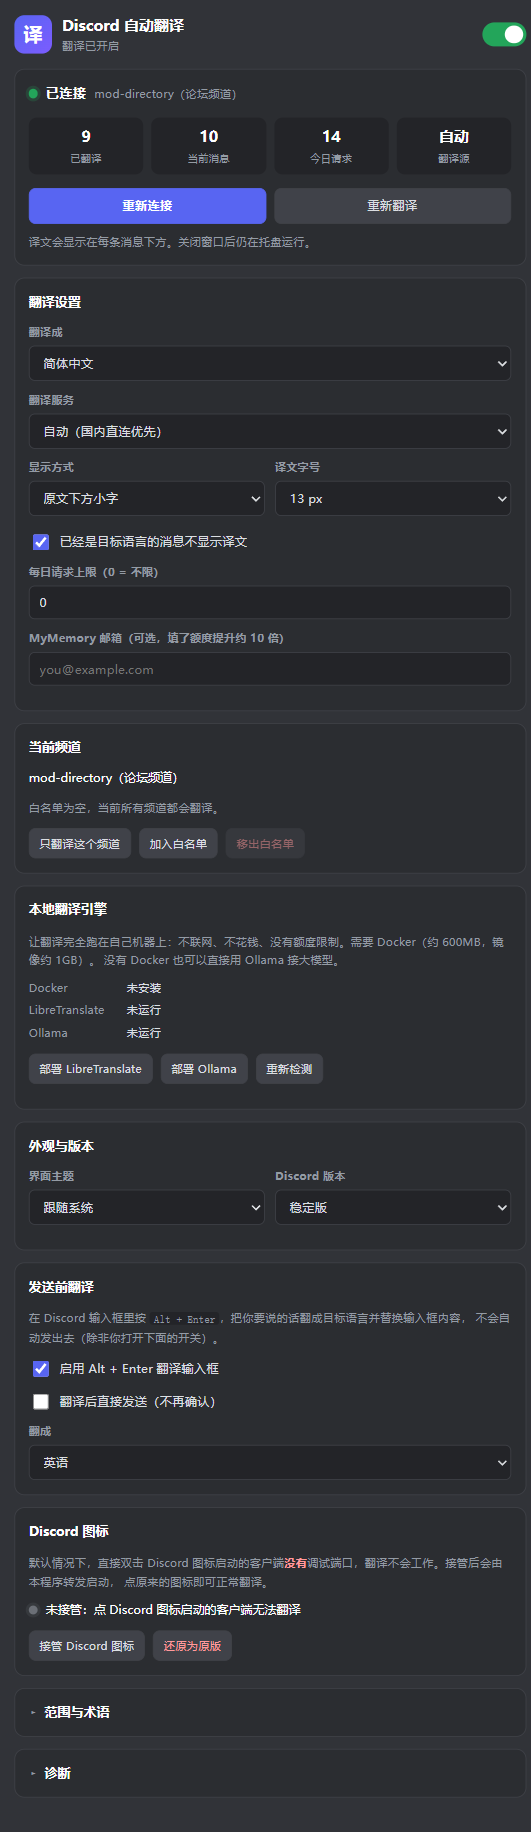
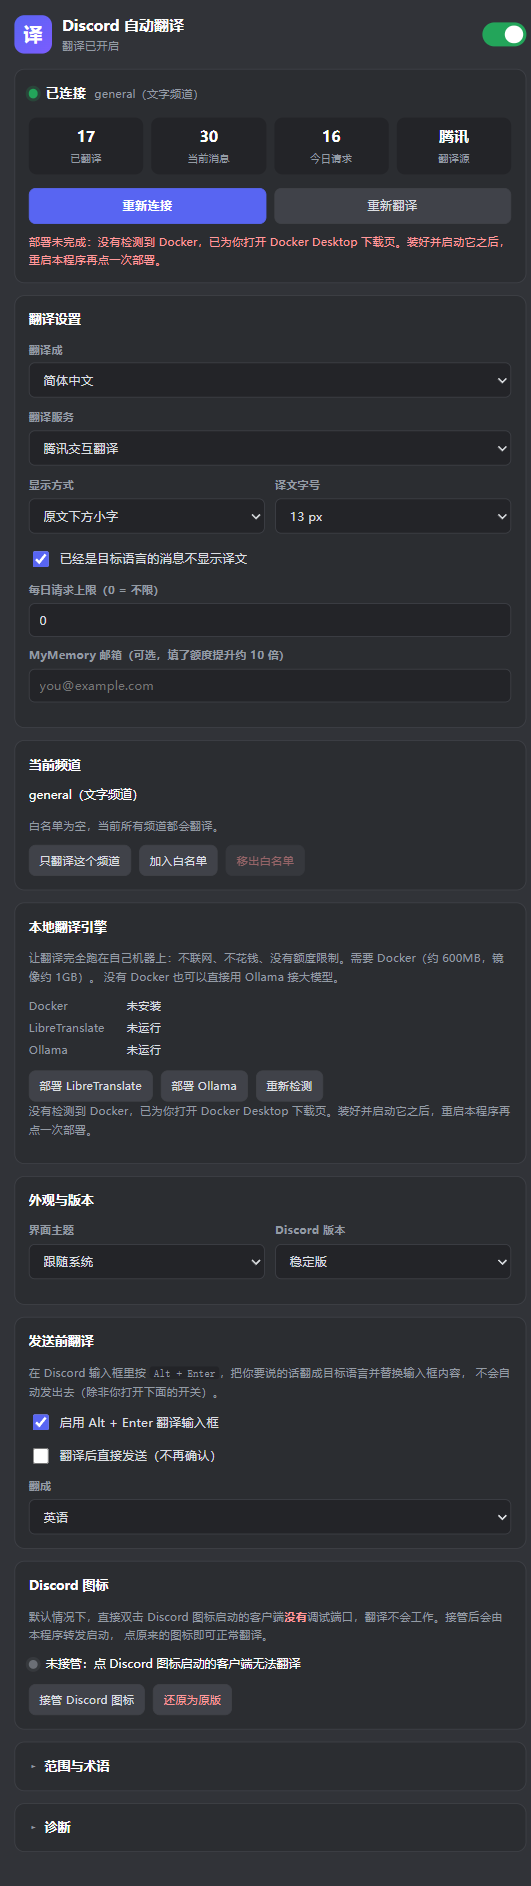
feat: 部署本地引擎时自动打开下载页
- 缺 Docker 时直接打开 Docker Desktop 下载页（ShellExecuteW，不闪黑窗）
- Docker 装了但没启动时顺手把它拉起来
- 缺 Ollama 且无 winget 时打开 ollama 下载页

diff --git a/desktop/src-tauri/src/local_engine.rs b/desktop/src-tauri/src/local_engine.rs
@@ -58,6 +58,57 @@ fn port_open(port: u16) -> bool {
     TcpStream::connect_timeout(&addr, Duration::from_millis(400)).is_ok()
 }
 
+/// 用系统默认浏览器打开链接。
+/// 走 ShellExecuteW 而不是 `cmd /c start`：后者会闪一下黑窗。
+fn open_url(url: &str) {
+    #[cfg(windows)]
+    {
+        use windows::core::HSTRING;
+        use windows::Win32::UI::Shell::ShellExecuteW;
+        use windows::Win32::UI::WindowsAndMessaging::SW_SHOWNORMAL;
+
+        unsafe {
+            let _ = ShellExecuteW(
+                None,
+                &HSTRING::from("open"),
+                &HSTRING::from(url),
+                None,
+                None,
+                SW_SHOWNORMAL,
+            );
+        }
+    }
+
+    #[cfg(not(windows))]
+    {
+        let _ = url;
+    }
+}
+
+const DOCKER_DOWNLOAD_URL: &str = "https://www.docker.com/products/docker-desktop/";
+const OLLAMA_DOWNLOAD_URL: &str = "https://ollama.com/download";
+
+/// 尝试拉起已安装但没运行的 Docker Desktop
+fn try_start_docker_desktop() -> bool {
+    let candidates = [
+        r"C:\Program Files\Docker\Docker\Docker Desktop.exe",
+        r"C:\Program Files\Docker\Docker\frontend\Docker Desktop.exe",
+    ];
+
+    for path in candidates.iter() {
+        if std::path::Path::new(path).exists() {
+            let mut cmd = Command::new(path);
+            cmd.creation_flags_safe();
+            if cmd.spawn().is_ok() {
+                crate::logging::write("INFO", "已尝试启动 Docker Desktop");
+                return true;
+            }
+        }
+    }
+
+    false
+}
+
 fn run_quiet(program: &str, args: &[&str]) -> Option<String> {
     let mut cmd = Command::new(program);
     cmd.args(args);
@@ -121,17 +172,25 @@ pub fn start_deploy() {
         let env = detect();
 
         if !env.docker {
+            // 直接打开下载页，省得用户自己去找
+            open_url(DOCKER_DOWNLOAD_URL);
             finish(
                 false,
-                "没有检测到 Docker。请先安装 Docker Desktop（约 600MB），安装后重启本程序再试。",
+                "没有检测到 Docker，已为你打开 Docker Desktop 下载页。装好并启动它之后，重启本程序再点一次部署。",
             );
             return;
         }
 
         if !env.docker_running {
+            // 装了但没启动：顺手把 Docker Desktop 拉起来
+            let started = try_start_docker_desktop();
             finish(
                 false,
-                "Docker 已安装但没有运行。请先启动 Docker Desktop，等它显示 Running 后再点部署。",
+                if started {
+                    "Docker 已安装但没在运行，正在为你启动 Docker Desktop。等托盘图标变成运行中（约 30~60 秒）后，再点一次部署。"
+                } else {
+                    "Docker 已安装但没在运行。请手动启动 Docker Desktop，等它显示 Running 后再点部署。"
+                },
             );
             return;
         }
@@ -322,9 +381,10 @@ fn deploy_ollama() {
         });
 
         if run_quiet("winget", &["--version"]).is_none() {
+            open_url(OLLAMA_DOWNLOAD_URL);
             finish(
                 false,
-                "没有检测到 Ollama，也没有 winget。请到 https://ollama.com/download 下载安装包，装好后重启本程序再点部署。",
+                "没有检测到 Ollama，也没有 winget，已为你打开下载页。装好后重启本程序再点一次部署。",
             );
             return;
         }
